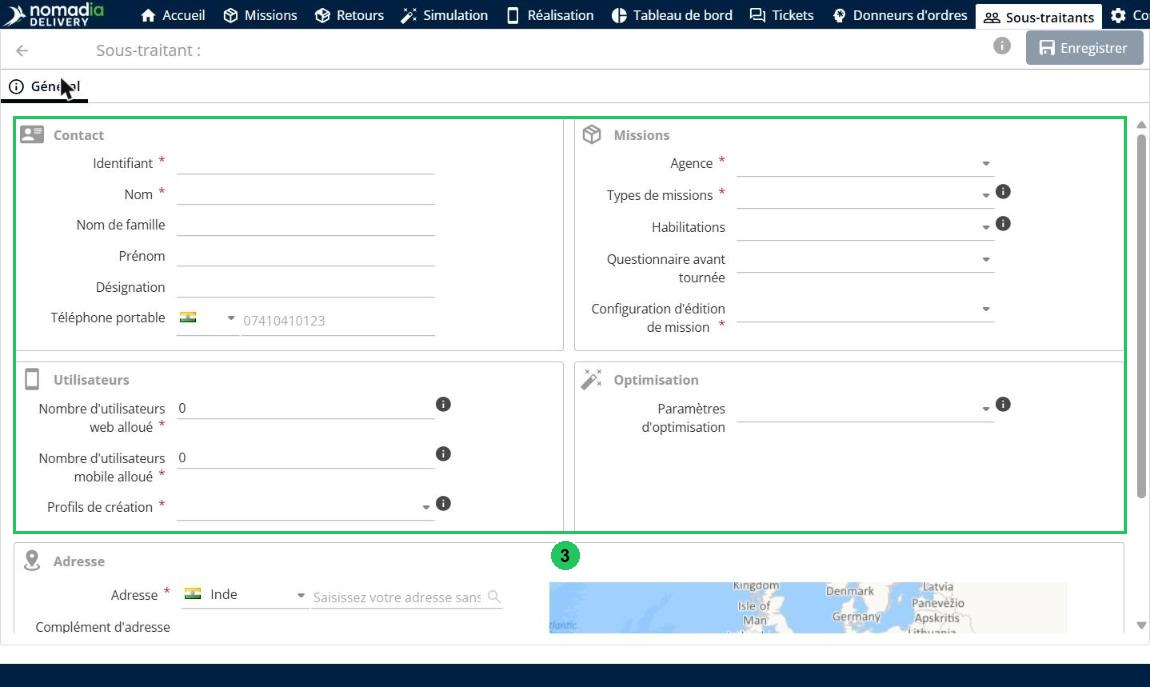
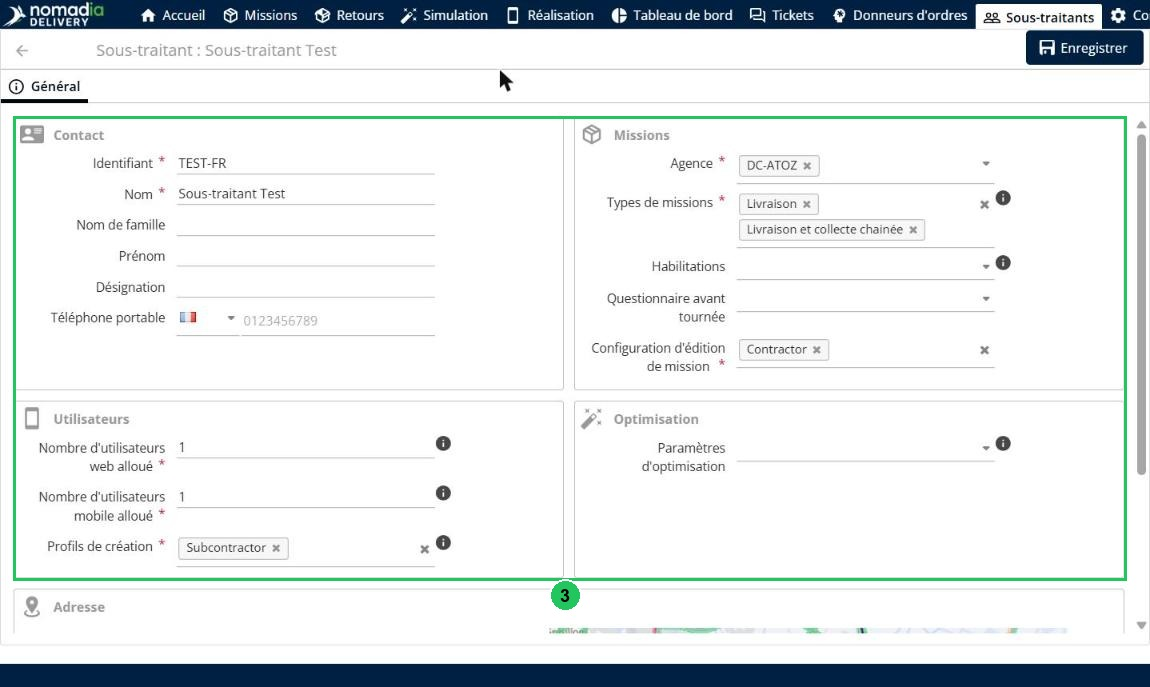
Add French screenshots for the subcontractor creation and mission assignment results

diff --git a/subcontractor-management/assigning-missions-to-subcontractor.md b/subcontractor-management/assigning-missions-to-subcontractor.md
@@ -28,9 +28,9 @@ Les transporteurs peuvent affecter des zones géographiques prédéfinies, basé
 
 ### Résultat
 
-Les missions sélectionnées sont affectées au sous-traitant choisi.
+Un message confirme que la mission a été assignée au sous-traitant, et la colonne **Sous-traitant** affiche le sous-traitant choisi.
 
-![](<../.gitbook/assets/image-15 (4).png>)
+![La colonne Sous-traitant affiche le sous-traitant choisi](../.gitbook/assets/SubcontractorMgmt_FR_21.jpg)
 
 ## Filtrer les missions affectées aux sous-traitants
 
@@ -45,7 +45,7 @@ Les missions sélectionnées sont affectées au sous-traitant choisi.
 
 L’onglet des missions affiche uniquement les missions attribuées au sous-traitant choisi.
 
-![](<../.gitbook/assets/image-17 (4).png>)
+![Seules les missions du sous-traitant choisi sont affichées](../.gitbook/assets/SubcontractorMgmt_FR_22.jpg)
 
 ## Conseils
 

diff --git a/subcontractor-management/register-a-subcontractor.md b/subcontractor-management/register-a-subcontractor.md
@@ -36,9 +36,9 @@ Les champs suivants sont obligatoires lors de l’ajout d’un sous-traitant :
 
 ### Résultat
 
-Une notification confirme que le sous-traitant a été ajouté avec succès.
+Le sous-traitant est ajouté et apparaît dans la liste des sous-traitants.
 
-![](<../.gitbook/assets/image-4 (6).png>)
+![Le nouveau sous-traitant dans la liste](../.gitbook/assets/SubcontractorMgmt_FR_20.jpg)
 
 ## Importer des sous-traitants en masse
 
